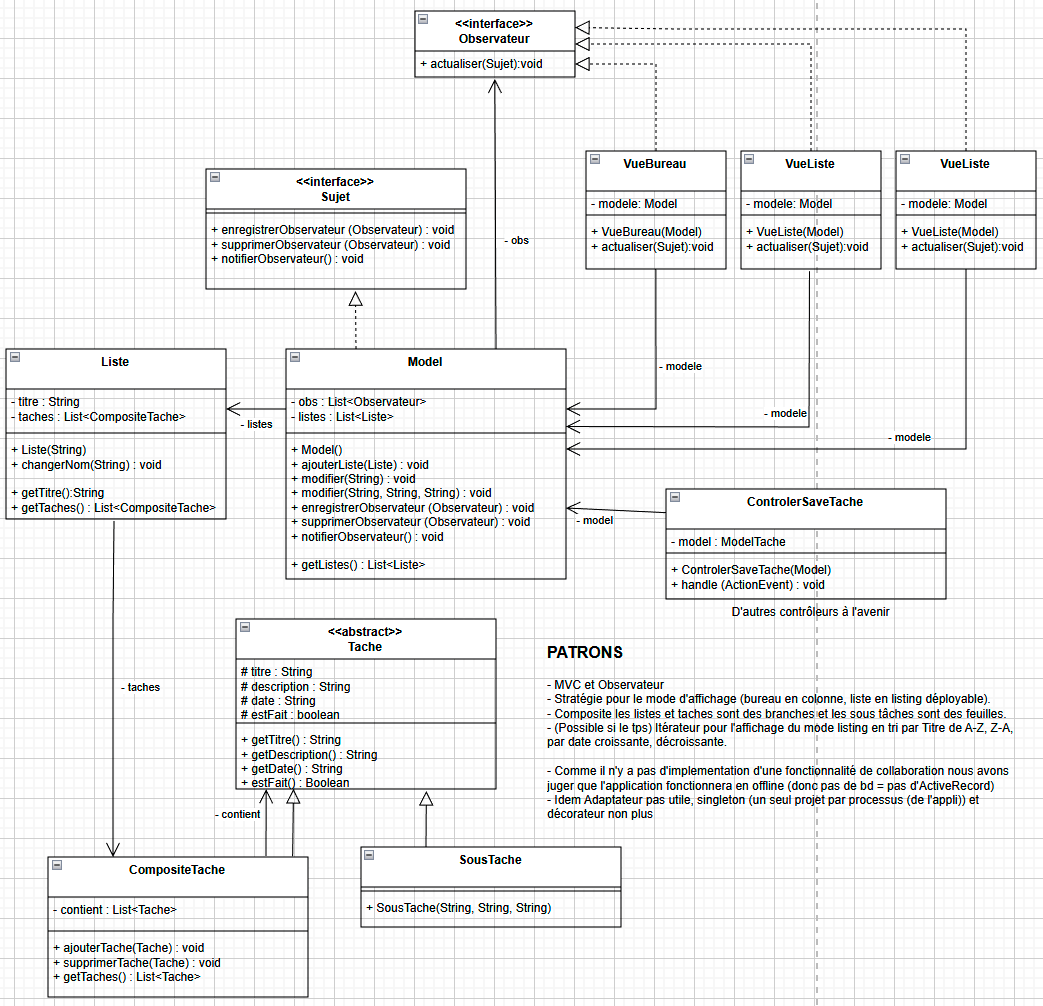
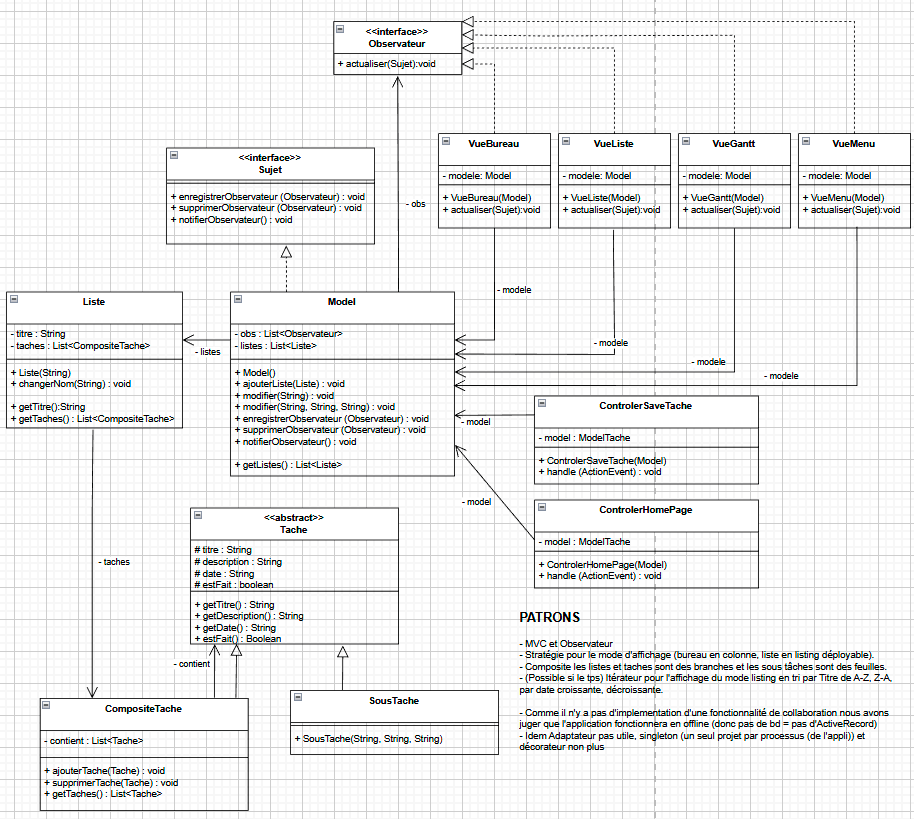
[Add] Diagramme de scène + Base code JFX + HomePage dans MainWindow

diff --git a/src/main/java/appSAE/MainWindow.java b/src/main/java/appSAE/MainWindow.java
@@ -1,15 +1,96 @@
 package appSAE;
 
 import javafx.application.Application;
+import javafx.geometry.Pos;
+import javafx.scene.Scene;
+import javafx.scene.control.Button;
+import javafx.scene.control.Label;
+import javafx.scene.image.ImageView;
+import javafx.scene.layout.BorderPane;
+import javafx.scene.layout.HBox;
+import javafx.scene.layout.StackPane;
+import javafx.scene.layout.VBox;
+import javafx.scene.text.Text;
 import javafx.stage.Stage;
 
 public class MainWindow extends Application {
     @Override
     public void start(Stage stage) {
+        BorderPane root = new BorderPane();
+
+        Model model = new Model();
+        /*
+        VueMenu menu = new VueMenu
+        model.enregistrerObservateur(menu);
+        root.setTop(menu);
+        */
+
+        // Centre root
+        StackPane centreRoot = new StackPane();
+
+
+        BorderPane homePage = new BorderPane();
+        Text welcomeText = new Text("Bienvenue dans HiTask");
+        welcomeText.setStyle("-fx-font-size: 25");
+        StackPane topPane = new StackPane(welcomeText);
+        topPane.setAlignment(Pos.CENTER);
+        homePage.setTop(topPane);
+
+        HBox btnHP = new HBox();
+
+        VBox createBtnBox = new VBox();
+        createBtnBox.getChildren().add(new ImageView("file:icons/plus-solid-full.png") {{
+            setFitWidth(32);
+            setFitHeight(32);
+            setPreserveRatio(true);
+        }});
+        createBtnBox.getChildren().add(new Label("Créer") {{
+            setTextFill(javafx.scene.paint.Color.WHITE);
+        }});
+        Button createBtn = new Button();
+        createBtn.setGraphic(createBtnBox);
+        createBtn.setPrefSize(200, 130);
+        createBtn.setStyle("-fx-background-color: #2563eb; -fx-background-radius: 8;");
+        createBtnBox.setAlignment(Pos.CENTER);
+
+        VBox openBtnBox = new VBox();
+        openBtnBox.getChildren().add(new ImageView("file:icons/folder-open-regular-full.png") {{
+            setFitWidth(32);
+            setFitHeight(32);
+            setPreserveRatio(true);
+        }});
+        openBtnBox.getChildren().add(new Label("Ouvrir"));
+        Button openBtn = new Button();
+        openBtn.setGraphic(openBtnBox);
+        openBtn.setPrefSize(200, 130);
+        openBtn.setStyle("-fx-background-color: transparent; -fx-border-color: #cccccc; -fx-border-radius: 8;");
+        openBtnBox.setAlignment(Pos.CENTER);
+
+        btnHP.getChildren().addAll(createBtn, openBtn);
+        btnHP.setAlignment(Pos.CENTER);
+        btnHP.setSpacing(40);
+        btnHP.setStyle("-fx-padding: 40;");
+        homePage.setCenter(btnHP);
+
+        centreRoot.getChildren().add(homePage);
+        root.setCenter(centreRoot);
+
+        /*
+        VueBureau bureau = new VueBureau
+        model.enregistrerObservateur(bureau);
+        */
+
+        Scene scene = new Scene(root);
+
         stage.setTitle("HiTask");
         stage.setMinHeight(324);
         stage.setMinWidth(576);
         stage.setMaximized(true);
+        stage.setScene(scene);
         stage.show();
+    }
+
+    public static void main(String[] args) {
+        launch(args);
     }
 }

diff --git a/src/main/java/appSAE/LireFichier.java b/src/main/java/appSAE/LireFichier.java
@@ -23,9 +23,9 @@ public class LireFichier {
         return contenu.toString();
     }
 
-
+/*
     public static String lireFicher(String fichier, ) throws IOException {}
-
+*/
     @Override
     public String toString() {
         return super.toString();
